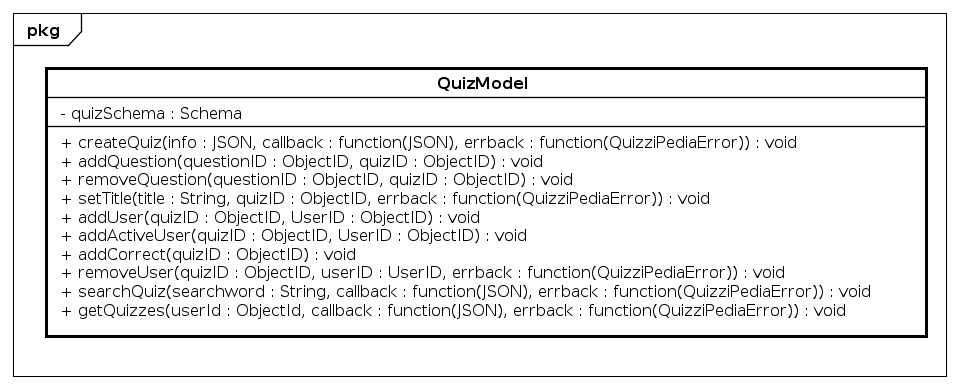
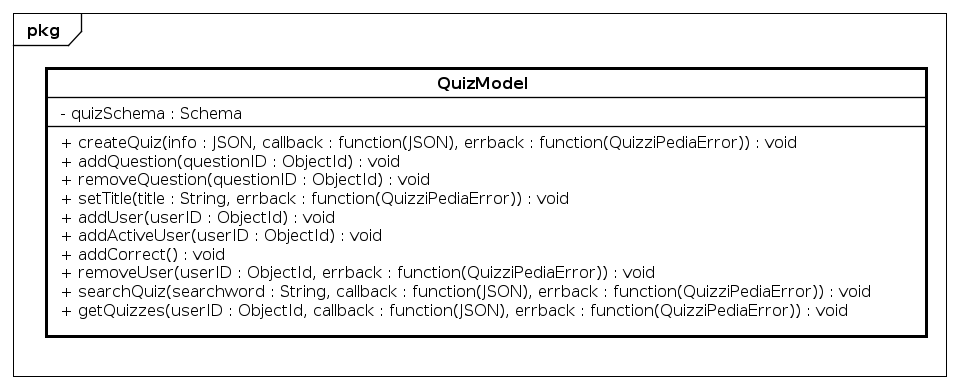
Modifiche a quizModel.

Changed region(s): [[0.1562, 0.401, 0.8125, 0.7404], [0.2188, 0.7712, 0.875, 0.8329]]

diff --git a/RP/DefinizioneDiProdotto/sezioni/Back-End/Models/QuizModel.tex b/RP/DefinizioneDiProdotto/sezioni/Back-End/Models/QuizModel.tex
@@ -1,11 +1,11 @@
 \paragraph{QuizziPedia::Back-End::App::Models::QuizModel}
 \label{QuizziPedia::Back-End::App::Models::QuizModel}
-\begin{figure}
+\begin{figure}[ht]
 	\centering
 	\includegraphics[scale=0.45]{UML/Classi/Back-End/QuizziPedia_Back-End_App_Models_quizModel.png}
 	\caption{QuizziPedia::Back-End::App::Models::QuizModel}
 \end{figure}
-
+\FloatBarrier
 
 
 
@@ -15,7 +15,12 @@
 	\item \textbf{Utilizzo} \\
 	Viene utilizzata per rappresentare i dati relativi ai questionari all'interno dell'applicazione. Si interfaccia con la libreria \textit{Mongoose\ped{G}} per la creazione dello schema e dei relativi metodi statici o di istanza.
 	\item \textbf{Relazioni con altre classi}
-		............
+		\begin{itemize}
+			\item \textbf{OUT} \texttt{QuestionModel}\\
+			Classe che rappresenta le operazioni relative alle domande.
+			\item \textbf{OUT} \texttt{UserModel}\\
+			Classe che rappresenta le operazioni relative agli utenti.
+		\end{itemize}
 	\item \textbf{Attributi}
 		\begin{itemize}
 			\item \textbf{- quizSchema: Schema} \\
@@ -44,72 +49,55 @@
 				Rappresenta la \textit{callback\ped{G}} che verrà eseguita al termine dell'elaborazione in caso di errore.
 			\end{itemize}
 			
-			\item \texttt{+ addQuestion(questionID: ObjectId, quizID: ObjectId): void}\\
+			\item \texttt{+ addQuestion(questionID: ObjectId): void}\\
 			Aggiunge una domanda al questionario.\\
 			\textbf{Parametri}:
 			\begin{itemize}
 				\item \texttt{questionID: ObjectId}\\
 				Rappresenta l'identificativo della domanda da aggiungere al questionario.
-				\item \texttt{quizID: ObjectId}\\
-				Rappresenta l'identificativo del questionario a cui verrà aggiunta una domanda.
 			\end{itemize}
 			
-			\item \texttt{+ removeQuestion(questionID: ObjectId, quizID: ObjectId): void}\\
+			\item \texttt{+ removeQuestion(questionID: ObjectId): void}\\
 			Rimuove una domanda dal questionario.\\
 			\textbf{Parametri}:
 			\begin{itemize}
 				\item \texttt{questionID: ObjectId}\\
 				Rappresenta l'identificativo della domanda da rimuovere dal questionario.
-				\item \texttt{quizID: ObjectId}\\
-				Rappresenta l'identificativo del questionario a cui verrà rimossa la domanda.
 			\end{itemize}
 			
-			\item \texttt{+ setTitle(title: String, quizID: ObjectId,  errback: function(QuizziPediaError)): void}\\ 		
+			\item \texttt{+ setTitle(title: String, errback: function(QuizziPediaError)): void}\\ 		
 			Dà un titolo al questionario.\\
 			\textbf{Parametri}:
 			\begin{itemize}
 				\item \texttt{title: String}\\
 				Rappresenta il titolo da dare al questionario.
-				\item \texttt{quizID: ObjectId}\\
-				Rappresenta l'identificativo del questionario a cui verrà dato il titolo.
 				\item \texttt{errback: function(QuizziPediaError)}\\
 				Rappresenta la \textit{callback\ped{G}} che verrà eseguita al termine dell'elaborazione in caso di errore.
 			\end{itemize}
 			
-			\item \texttt{+ addUser(quizID: ObjectId, userID: ObjectId): void}\\
+			\item \texttt{+ addUser(userID: ObjectId): void}\\
 			Iscrive un utente al questionario.\\
 			\textbf{Parametri}:
 			\begin{itemize}
-				\item \texttt{quizID: ObjectId}\\
-				Rappresenta l'identificativo del questionario a cui verrà iscritto l'utente.
 				\item \texttt{userID: ObjectId}\\
 				Rappresenta l'identificativo dell'utente da aggiungere al questionario.
 			\end{itemize}
 			
-			\item \texttt{+ addActiveUser(quizID: ObjectId, userID: ObjectId): void}\\
+			\item \texttt{+ addActiveUser(userID: ObjectId): void}\\
 			Iscrive un utente al questionario.\\
 			\textbf{Parametri}:
 			\begin{itemize}
-				\item \texttt{quizID: ObjectId}\\
-				Rappresenta l'identificativo del questionario a cui verrà iscritto un utente.
 				\item \texttt{userID: ObjectId}\\
 				Rappresenta l'identificativo dell'utente da aggiungere al questionario.
 			\end{itemize}
 			
-			\item \texttt{+ addCorrect(quizID: ObjectId): void}\\
-			Incrementa il numero di risposte corrette date alle domande del questionario.\\
-			\textbf{Parametri}:
-			\begin{itemize}
-				\item \texttt{quizID: ObjectId}\\
-				Rappresenta l'identificativo del questionario di cui si deve incrementare il numero di risposte corrette date.
-			\end{itemize}
+			\item \texttt{+ addCorrect(): void}\\
+			Incrementa il numero di risposte corrette date alle domande del questionario.\\			
 			
-			\item \texttt{+ removeUser(quizID: ObjectId, userID: ObjectId, errback: function(QuizziPediaError)): void}\\
+			\item \texttt{+ removeUser(userID: ObjectId, errback: function(QuizziPediaError)): void}\\
 			Rimuovere un utente dalla lista degli iscritti al questionario.\\
 			\textbf{Parametri}:
 			\begin{itemize}
-				\item \texttt{quizID: ObjectId}\\
-				Rappresenta l'identificativo del questionario da cui verrà rimosso un utente.
 				\item \texttt{userID: ObjectId}\\
 				Rappresenta l'identificativo dell'utente da rimuovere dalla lista degli iscritti al questionario.
 				\item \texttt{errback: function(QuizziPediaError)}\\
